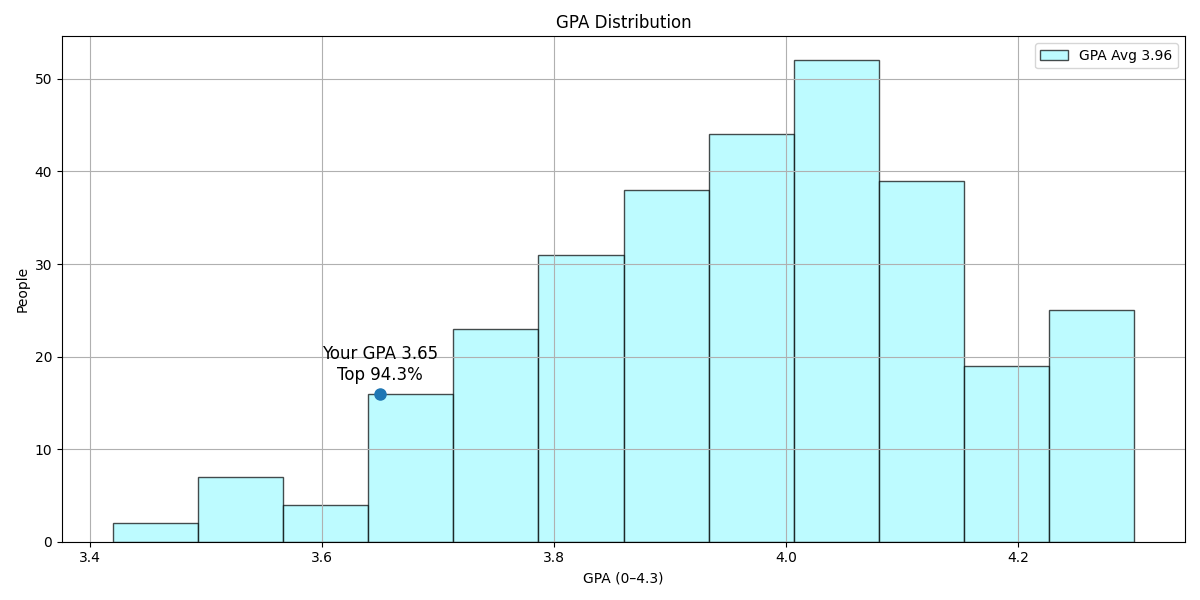
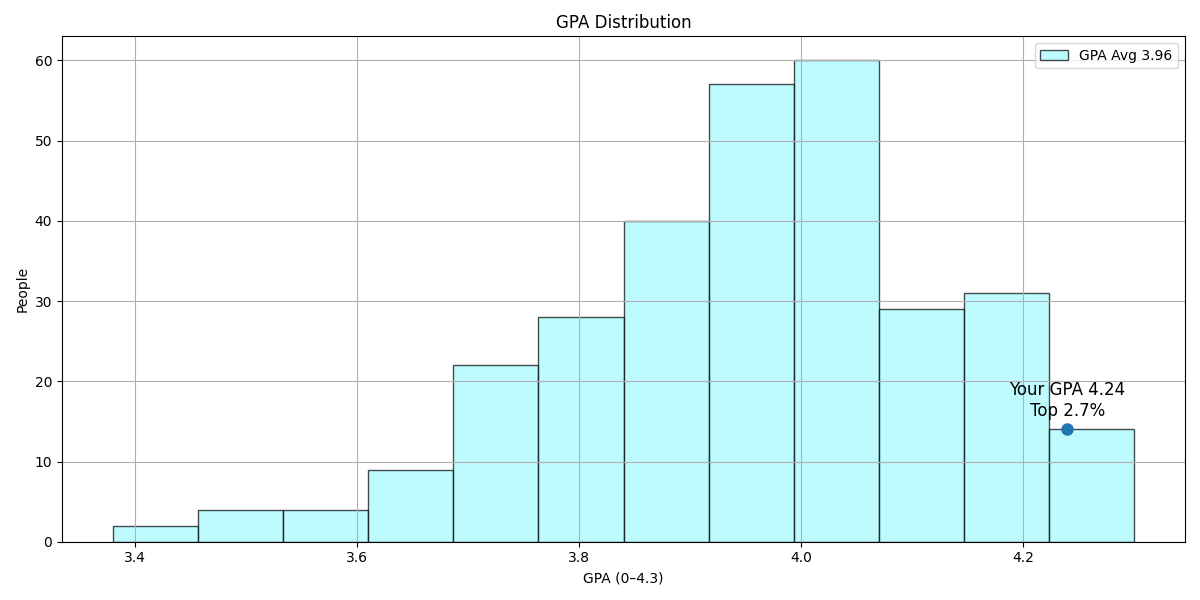
修正角色社交、遊戲和休息方法中的社交能力計算邏輯，確保社交能力不會超過100 更新多個圖像以反映最新的模擬結果

diff --git a/character.py b/character.py
@@ -51,7 +51,7 @@ class Character:
         self.mood , self.energy , self.social, self.knowledge = \
             min(100, self.mood + self.last_week_change[0]),\
             max(0, self.energy + self.last_week_change[1]),\
-            max(0, self.social + self.last_week_change[2]),\
+            min(100, self.social + self.last_week_change[2]),\
             min(100, self.knowledge + self.last_week_change[3]) 
 
         #print(f"{self.name} 正在社交中 🤝🎉 社交能力提升了 {growth:.2f} 點！現在是 {self.social}/100")
@@ -68,8 +68,8 @@ class Character:
         self.mood , self.energy , self.social, self.knowledge = \
             min(100, self.mood + self.last_week_change[0]),\
             max(0, self.energy + self.last_week_change[1]),\
-            max(0, self.social + self.last_week_change[2]),\
-            max(0, self.knowledge + self.last_week_change[3])
+            min(100, self.social + self.last_week_change[2]),\
+            min(100, self.knowledge + self.last_week_change[3])
         #print(f"{self.name} 正在玩遊戲 🎮😄 心情提升了 {growth:.2f} 點！現在是 {self.mood}/100")
 
     def rest(self, degree):
@@ -79,13 +79,13 @@ class Character:
             (self.intelligence - 50) * 0.2 -
             (self.social - 30) * 0.01
         )
-        self.last_week_change = [int(growth*0.6), growth, 0, 3+int(round(-growth * 0.1))]
+        self.last_week_change = [int(growth*0.6), growth, 1, 3+int(round(-growth * 0.1))]
         self.last_week_change = [int(grow * degree) for grow in self.last_week_change]
         self.mood , self.energy , self.social, self.knowledge = \
             min(100, self.mood + self.last_week_change[0]),\
             min(100, self.energy + self.last_week_change[1]),\
             max(0, self.social + self.last_week_change[2]),\
-            max(0, self.knowledge + self.last_week_change[3])
+            min(100, self.knowledge + self.last_week_change[3])
         #print(f"{self.name} 正在休息 💤😌 體力提升了 {growth:.2f} 點！現在是 {self.energy}/100")
 
     def calculate_grade(self):
